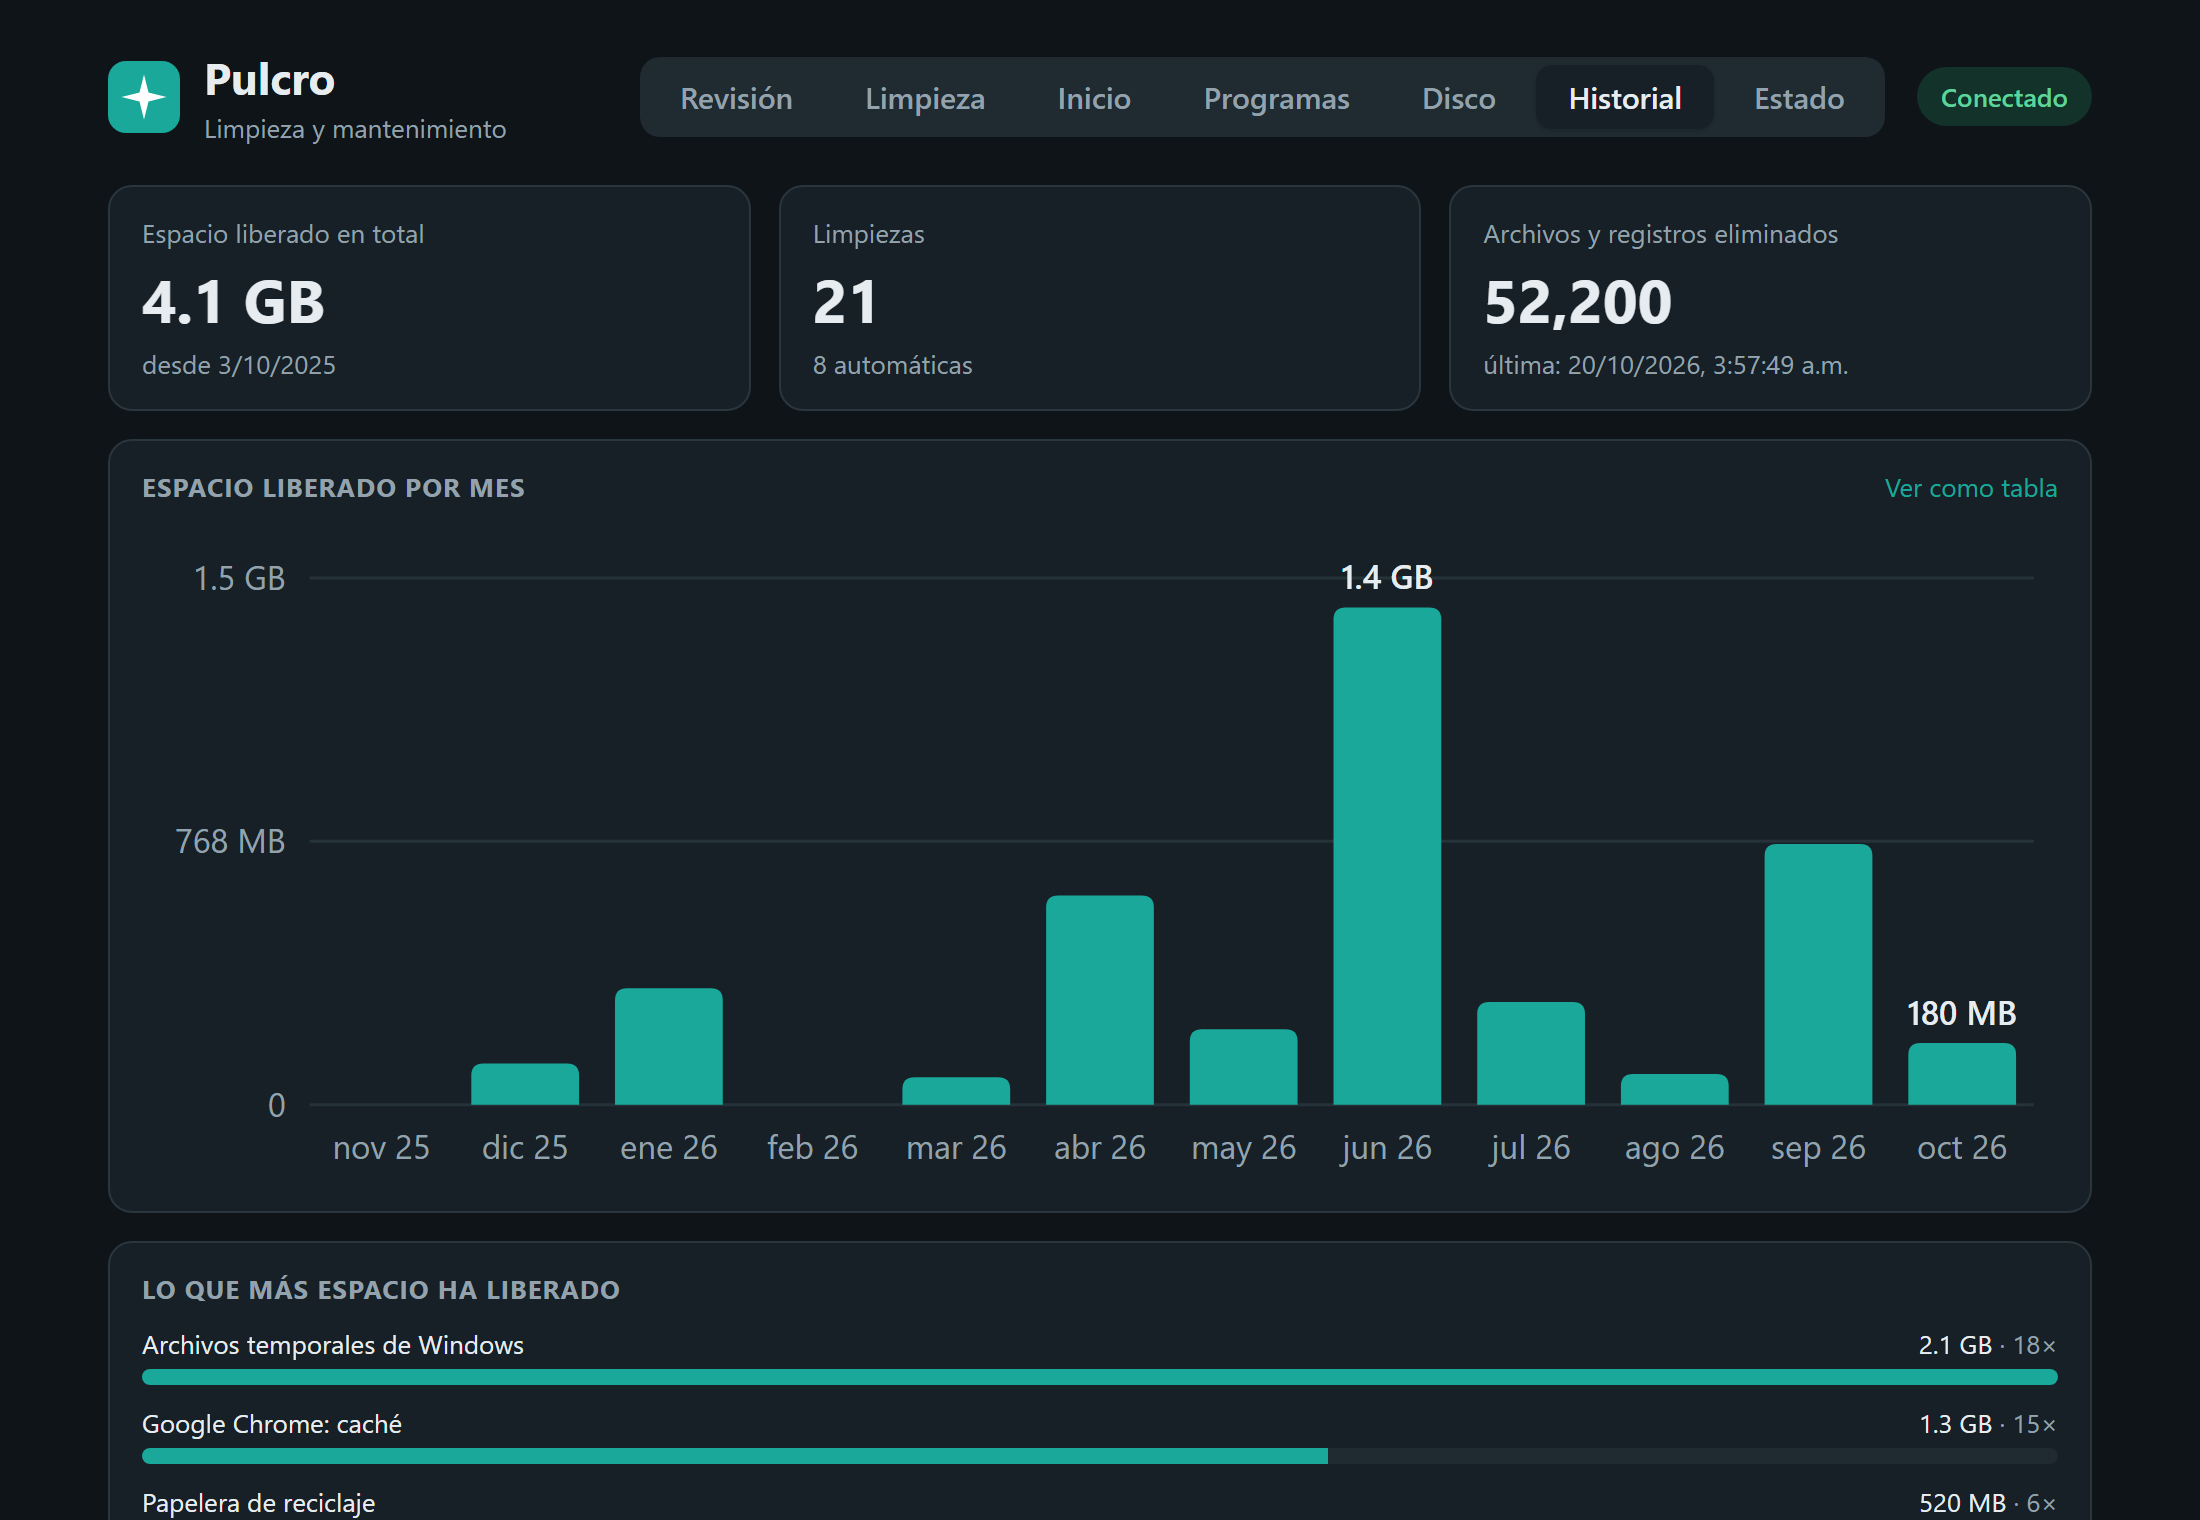
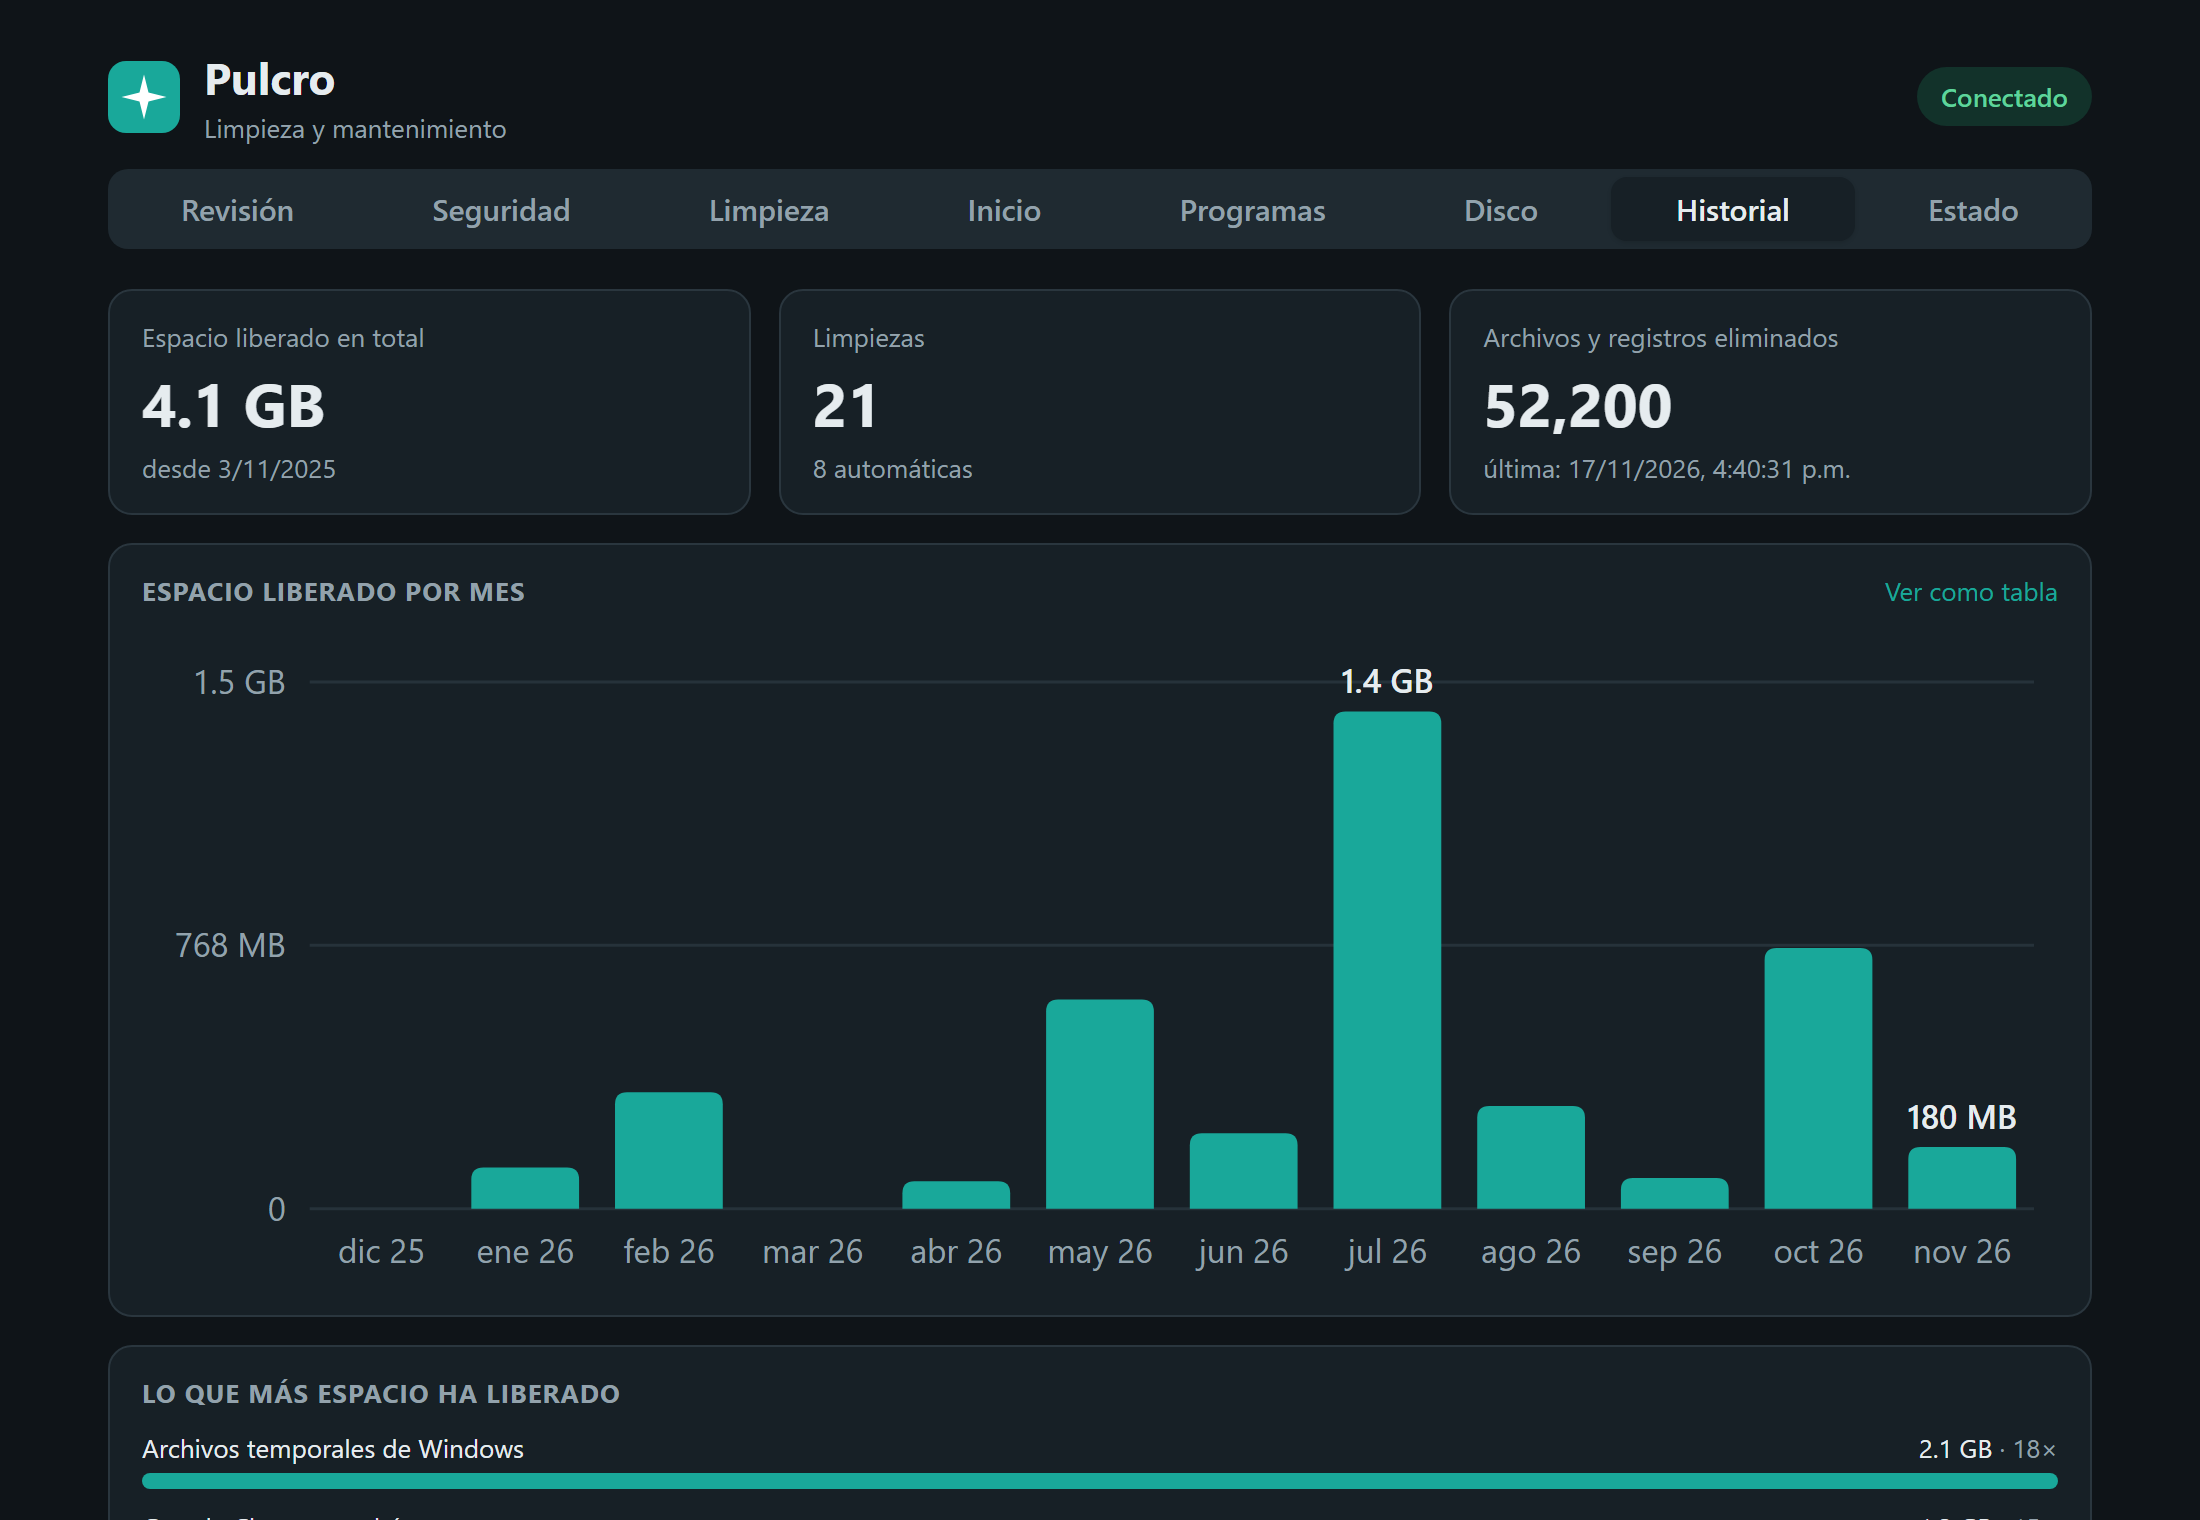
Página de descarga: imágenes actualizadas (Seguridad, Disco y Android)
- Portada nueva con "Windows y Android"
- Capturas de Limpieza e Historial con la interfaz actual
- Nuevas: Seguridad, Disco (optimizar unidades) y Pulcro para Android
- Aviso de que las capturas usan datos de ejemplo

diff --git a/README.md b/README.md
@@ -32,6 +32,10 @@ Sin root y de 2 MB: revisión del teléfono con nota de 0 a 100, limpieza de ins
 
 Para instalarlo, abre el `.apk` en el teléfono y permite instalar apps de esa fuente cuando Android lo pida. Al abrir Pulcro, concede «acceso a todos los archivos» y «acceso a datos de uso»: sin ellos no puede buscar basura ni medir las apps.
 
+<p align="center">
+  <img src="img/android.png" alt="Pulcro para Android" width="50%">
+</p>
+
 ## Sin miedo a romper nada
 
 - **Papelera de seguridad:** lo que Pulcro limpia se puede recuperar durante 24 horas.
@@ -42,6 +46,11 @@ Para instalarlo, abre el `.apk` en el teléfono y permite instalar apps de esa f
   <img src="img/limpieza.png" alt="Pestaña Limpieza de Pulcro" width="49%">
   <img src="img/historial.png" alt="Pestaña Historial de Pulcro" width="49%">
 </p>
+<p align="center">
+  <img src="img/seguridad.png" alt="Pestaña Seguridad de Pulcro" width="49%">
+  <img src="img/disco.png" alt="Pestaña Disco de Pulcro: optimizar unidades" width="49%">
+</p>
+<p align="center"><sub>Capturas con datos de ejemplo.</sub></p>
 
 ## Instalación
 
